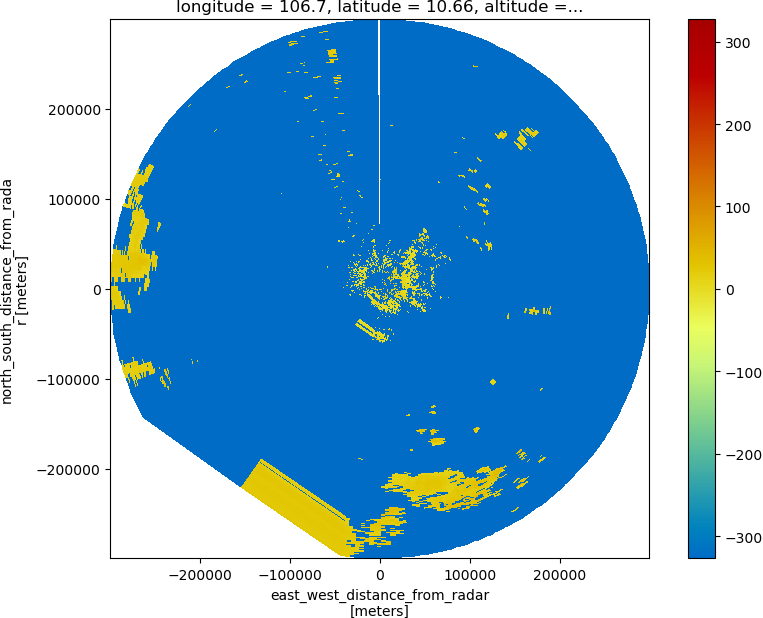
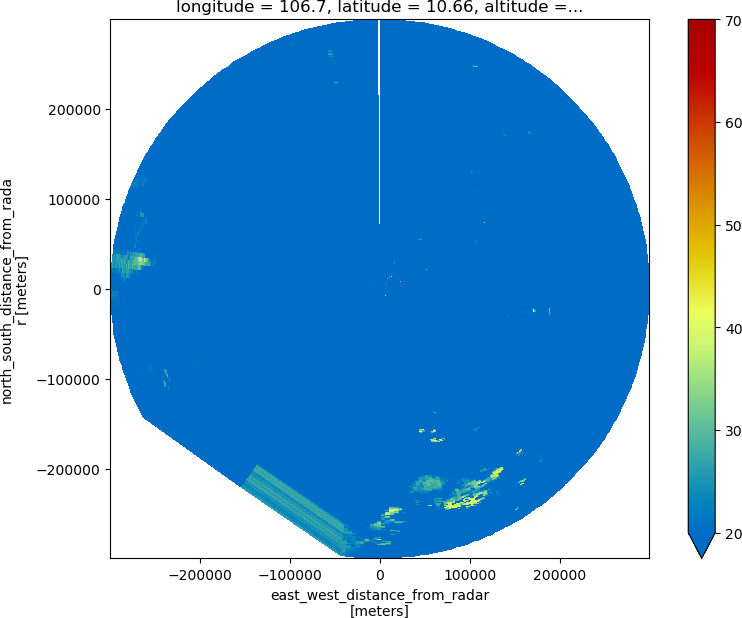
Fix: Draw when in right page

diff --git a/src/main.py b/src/main.py
@@ -97,6 +97,7 @@ class MainWindow(QMainWindow):
         mainTimer = PyQt5.QtCore.QTimer(self)
         mainTimer.setInterval(int(TICK))   # period, in milliseconds
         mainTimer.timeout.connect(self.glWidget.updateGL)
+        mainTimer.timeout.connect(self.glWidget_2.updateGL)
         mainTimer.start()
 
         self.switchFrameTimer = PyQt5.QtCore.QTimer(self)
@@ -137,20 +138,23 @@ class MainWindow(QMainWindow):
             event.accept()
 
     def page2Connect(self, event):
-      if not self.page_2Connected:
-        self.ui.threshold.textChanged.connect(self.getThreshold)
-        self.ui.timerInput.textChanged.connect(self.getSwichFrameTimer)
-        self.ui.threshold_pro.textChanged.connect(self.getThresholdPro)
-        # self.ui.timerInput_pro.textChanged.connect(self.getSwichFrameTimerPro)
-        self.ui.fileBox.currentIndexChanged.connect(self.getFile)
-        self.ui.radarBox.currentIndexChanged.connect(self.getRadar)
-        self.ui.modeBox.currentIndexChanged.connect(self.getMode)
-        self.ui.dateBox.currentIndexChanged.connect(self.getDate)
-        self.ui.clutterFilterToggle.stateChanged.connect(self.getClutterFilter)
-        self.ui.gridCheckBox.stateChanged.connect(self.getGrid)
+        if not self.page_2Connected:
+            self.ui.threshold.textChanged.connect(self.getThreshold)
+            self.ui.timerInput.textChanged.connect(self.getSwichFrameTimer)
+            self.ui.threshold_pro.textChanged.connect(self.getThresholdPro)
+            self.ui.fileBox.currentIndexChanged.connect(self.getFile)
+            self.ui.radarBox.currentIndexChanged.connect(self.getRadar)
+            self.ui.modeBox.currentIndexChanged.connect(self.getMode)
+            self.ui.dateBox.currentIndexChanged.connect(self.getDate)
+            self.ui.clutterFilterToggle.stateChanged.connect(self.getClutterFilter)
+            self.ui.gridCheckBox.stateChanged.connect(self.getGrid)
+            self.ui.preFile.clicked.connect(self.goPrevFile)
+            self.ui.nextFile.clicked.connect(self.goNextFile)
+            self.ui.resetView.clicked.connect(self.reset3DView)
+            self.ui.checkBox_scan.clicked.connect(self.getScan3D)
 
-        self.ui.threshold_pro.textChanged.connect(self.getThresholdPro)
-        self.page_2Connected = True
+            self.ui.threshold_pro.textChanged.connect(self.getThresholdPro)
+            self.page_2Connected = True
       
     def page2Disconnect(self, event):
       if self.page_2Connected:
@@ -162,6 +166,10 @@ class MainWindow(QMainWindow):
         self.ui.fileBox.currentIndexChanged.disconnect(self.getFile)
         self.ui.clutterFilterToggle.stateChanged.disconnect(self.getClutterFilter)
         self.ui.gridCheckBox.stateChanged.disconnect(self.getGrid)
+        self.ui.preFile.clicked.disconnect(self.goPrevFile)
+        self.ui.nextFile.clicked.disconnect(self.goNextFile)
+        self.ui.resetView.clicked.disconnect(self.reset3DView)
+        self.ui.checkBox_scan.clicked.disconnect(self.getScan3D)
 
         self.page_2Connected = False
 
@@ -301,9 +309,6 @@ class MainWindow(QMainWindow):
         self.ui.clutterFilterToggle.setEnabled(False)
         self.ui.gridCheckBox.setEnabled(False)
 
-        # self.ui.slider_3d_x.setDisabled(True)
-        # self.ui.slider_3d_y.setDisabled(True)
-
     def on_view2d_2_toggled(self):
         self.ui.scrollArea.takeWidget()
         self.ui.scrollArea_4.setWidget(self.glWidget)
@@ -324,7 +329,7 @@ class MainWindow(QMainWindow):
         self.ui.stackedWidget_2.setCurrentIndex(2)
         self.ui.labelPage.setText("Pro View")
 
-    def on_other_2_toggled(self, ):
+    def on_other_2_toggled(self):
         self.ui.stackedWidget.setCurrentIndex(1)
         self.ui.stackedWidget_2.setCurrentIndex(2)
         self.ui.labelPage.setText("Pro View")
@@ -443,21 +448,23 @@ class MainWindow(QMainWindow):
         self.glWidget.update(index=index, clutterFilter=self.ui.clutterFilterToggle.isChecked(), isGrid=self.ui.gridCheckBox.isChecked())
         self.glWidget.updateGL()
 
-        if self.glWidget_2:
-          self.glWidget_2.update(index=index)
-          self.glWidget_2.updateGL()
+        if self.ui.stackedWidget.currentIndex() == 1 and self.ui.stackedWidget_2.currentIndex() == 2: 
+            self.glWidget_2.update(index=index)
+            self.glWidget_2.updateGL()
 
-        self.getPlotMode()
-        self.ui.view_2d_label.setPixmap(QPixmap('plot/' + self.ui.plot_mode_box.currentText() + '.png'))
-        self.ui.view_2d_label.setScaledContents(True)
+            self.addInfor()
+            self.addExtraInfor()
+            self.addStormList()
+            
+            self.ui.lat_pro.setText(f"{self.glWidget.radar.data.longitude['data'][0]:.4f}")
+            self.ui.long_pro.setText(f"{self.glWidget.radar.data.latitude['data'][0]:.4f}")
+
+        if self.ui.stackedWidget.currentIndex() == 1 and self.ui.stackedWidget_2.currentIndex() == 1:
+            self.getPlotMode()
+            self.ui.view_2d_label.setPixmap(QPixmap('plot/' + self.ui.plot_mode_box.currentText() + '.png'))
+            self.ui.view_2d_label.setScaledContents(True)
         
-        
-        self.addInfor()
-        self.addExtraInfor()
-        self.addStormList()
-        
-        self.ui.lat_pro.setText(f"{self.glWidget.radar.data.longitude['data'][0]:.4f}")
-        self.ui.long_pro.setText(f"{self.glWidget.radar.data.latitude['data'][0]:.4f}")
+
 
     def getClutterFilter(self, state):
         if state:
@@ -544,12 +551,6 @@ class MainWindow(QMainWindow):
         self.ui.slider_3d_y.setMaximum(115)
         self.ui.slider_3d_z.setMaximum(115)
 
-        # self.ui.fileBox.currentIndexChanged.connect(self.getFile)
-        self.ui.preFile.clicked.connect(self.goPrevFile)
-        self.ui.nextFile.clicked.connect(self.goNextFile)
-        self.ui.resetView.clicked.connect(self.reset3DView)
-        self.ui.checkBox_scan.clicked.connect(self.getScan3D)
-
     def initProView(self):
 
         self.ui.scrollArea.setWidget(self.glWidget)
@@ -558,8 +559,6 @@ class MainWindow(QMainWindow):
         # 2D 
         source = ['./plot/wrl_plot_scan_strategy.png']
         scanStrategyImage = QPixmap(source[0])
-        # self.ui.label2d_pro.setPixmap(scanStrategyImage)
-        # self.ui.label2d_pro.setScaledContents(True)
 
         self.ui.slider_pro_x.valueChanged.connect(self.updateSliderX)
         self.ui.slider_pro_y.valueChanged.connect(self.updateSliderY)
@@ -578,10 +577,6 @@ class MainWindow(QMainWindow):
         self.addPlotModeImage()
         self.ui.lat_pro.setText(f"{self.glWidget.radar.data.longitude['data'][0]:.4f}")
         self.ui.long_pro.setText(f"{self.glWidget.radar.data.latitude['data'][0]:.4f}")
-
-        # self.ui.scrollArea_4.setMinimumHeight(int(self.ui.page_3.height() * 0.75))
-        # self.ui.scrollArea_4.setMinimumWidth(int(self.ui.page_3.width() * 0.75))
-        # self.ui.label2d_pro.setMinimumWidth(int(self.ui.page_3.width() * 0.25))
     
     def addPlotBoxMode(self):
         plotMode = [
@@ -713,12 +708,10 @@ class MainWindow(QMainWindow):
     def goPrevFile(self):
         index = max(0, self.ui.fileBox.currentIndex()-1)
         self.ui.fileBox.setCurrentIndex(index)
-        # self.getFile(index=index)
 
     def goNextFile(self):
         index = min(self.ui.fileBox.count() - 1,self.ui.fileBox.currentIndex()+1)
         self.ui.fileBox.setCurrentIndex(index)
-        # self.getFile(index=index)
 
     def updateSliderX(self, val):
         self.glWidget.setRotX(val)
@@ -777,7 +770,7 @@ class MainWindow(QMainWindow):
         self.ui.track_vmin.setText(str(DEFAULT_2D_TRACK_CONFIG['VMIN'])) 
 
     def chooseDir(self):
-      self.ui.fileBox.currentIndexChanged.disconnect(self.getFile)
+    #   self.ui.fileBox.currentIndexChanged.disconnect(self.getFile)
       dataDir = QFileDialog.getExistingDirectory()
       if dataDir is not None and dataDir != "" and os.path.abspath(dataDir) != os.path.abspath(DEFAULT_FILE_PATH):
         self.DataManager.reconstructFile(dataDir)
@@ -790,7 +783,7 @@ class MainWindow(QMainWindow):
         self.addItemDate()
         self.addItemMode()
         self.addItemFile()
-        self.ui.fileBox.currentIndexChanged.connect(self.getFile)
+        # self.ui.fileBox.currentIndexChanged.connect(self.getFile)
 
     def getError(self, err):
         """
@@ -887,7 +880,6 @@ class MainWindow(QMainWindow):
         self.ui.slider_pro_y_2.setMaximum(115)
         self.ui.slider_pro_z_2.setMaximum(115)
 
-        self.ui.fileBox.currentIndexChanged.connect(self.getFile)
 
 # * slider for second GLwidget here
     def updateSliderX_Pro_2(self, val):

diff --git a/src/Radar.py b/src/Radar.py
@@ -400,7 +400,7 @@ class Radar:
         plt.close()
         del da, da_geo, clutter, pia, data_attcorr, z, R, depths
       elif mode == "wrl_ppi":
-        da_geo.wrl.vis.plot(add_colorbar=True)
+        da_geo.wrl.vis.plot(add_colorbar=True, vmax=70, vmin=20)
         plt.savefig('plot/wrl_ppi.png', bbox_inches='tight', pad_inches=0)
         plt.close()
         del da, da_geo, clutter, pia, data_attcorr, z, R, depths
